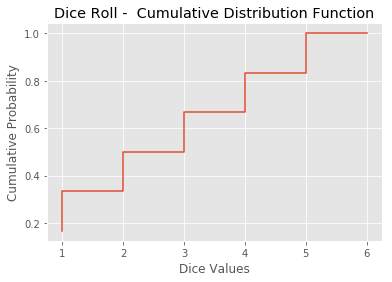
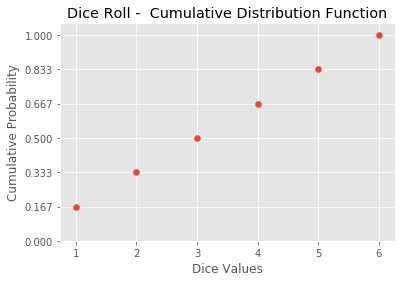
correcting code block and directions. changing step plot to scatter plot to as it is more interpretaple.

diff --git a/README.md b/README.md
@@ -21,7 +21,7 @@ So given a list of all possible values of x, We can easily calculate the CDF for
 
 * Build a function `calculate_cdf(lst,X)`, where `lst` is a list of all possible values in a discrete variable $x$ (6 values for a dice roll), and $X$ is the value for which we want to calculate the cumulative distribution function 
 * Initialize a count variable
-* for all values in `lst`, if a value is less than $X$, add one to count - do nothing otherwise. (this will tell us the total number of values less than $X$) 
+* for all values in `lst`, if a value is less than or equal to $X$, add one to count - do nothing otherwise. (this will tell us the total number of values less than $X$) 
 * Calculate the cumulative probability of $X$ dividing the count with the total possible values
 * Round by 3 decimals and return the cumulative probability of $X$
 
@@ -31,7 +31,7 @@ So given a list of all possible values of x, We can easily calculate the CDF for
 def calculate_cdf(lst, X):
     count = 0
     for value in lst:
-        if value < X:
+        if value <= X:
             count += 1
 
     cum_prob = count / len(lst) # normalizing cumulative probabilities (as with pmfs)
@@ -47,7 +47,7 @@ calculate_cdf(test_lst, test_X)
 
 
 
-    0.333
+    0.667
 
 
 
@@ -70,7 +70,7 @@ dice_cum
 
 
 
-    [0.0, 0.167, 0.333, 0.5, 0.667, 0.833]
+    [0.167, 0.333, 0.5, 0.667, 0.833, 1.0]
 
 
 
@@ -102,18 +102,19 @@ CDFs (and PMFs) can be calculated using built-in Numpy and Matplotlib methods. S
 You would need to perform these steps
 * Use `np.histogram()` to automatically calculate the histogram with probabilities. [Here is numpy histogram documentation](https://docs.scipy.org/doc/numpy/reference/generated/numpy.histogram.html) to help you dig deeper.
 
-* Use [`plt.step()`](https://matplotlib.org/api/_as_gen/matplotlib.pyplot.step.html) method with [`np.cumsum()`](https://docs.scipy.org/doc/numpy/reference/generated/numpy.cumsum.html) to calculate and plot cumulative probabilities (just like we did above). 
+* Use [`plt.scatter()`](https://matplotlib.org/api/_as_gen/matplotlib.pyplot.scatter.html) method with [`np.cumsum()`](https://docs.scipy.org/doc/numpy/reference/generated/numpy.cumsum.html) to calculate and plot cumulative probabilities (just like we did above). 
 
 
 
 ```python
 import numpy as np
 sample = [1,2,3,4,5,6]
-hist = np.histogram(sample, bins=6, range=(1, 7), normed=True)
-plt.step(hist[1][:-1], np.cumsum(hist[0]))
+hist = np.histogram(sample, bins=6, range=(1,7), normed=True)
+plt.scatter(hist[1][:-1], np.cumsum(hist[0]))
 plt.title ("Dice Roll -  Cumulative Distribution Function");
 plt.xlabel("Dice Values")
 plt.ylabel("Cumulative Probability")
+plt.yticks(np.linspace(0,1,num=7))
 plt.show()
 ```
 
